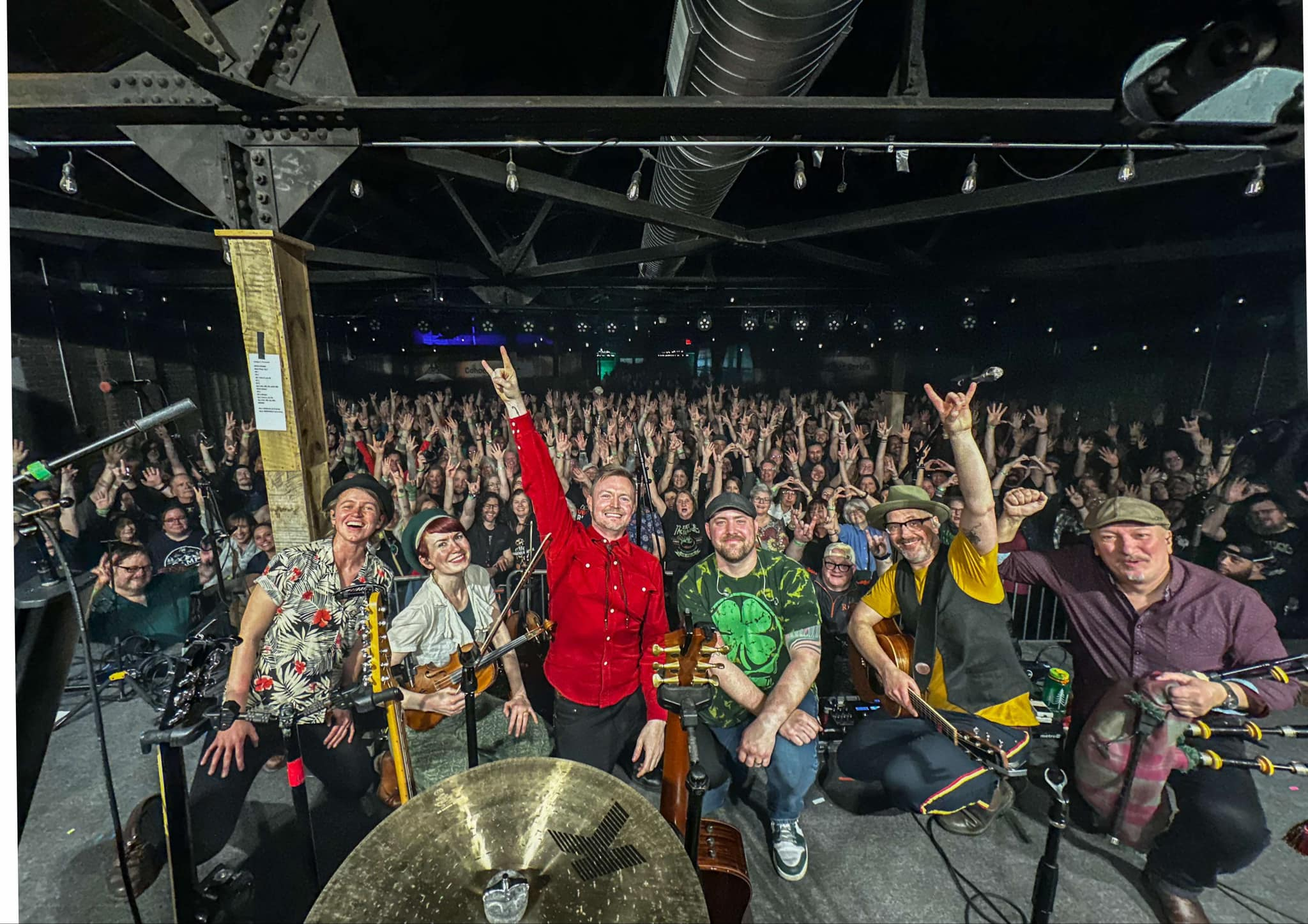
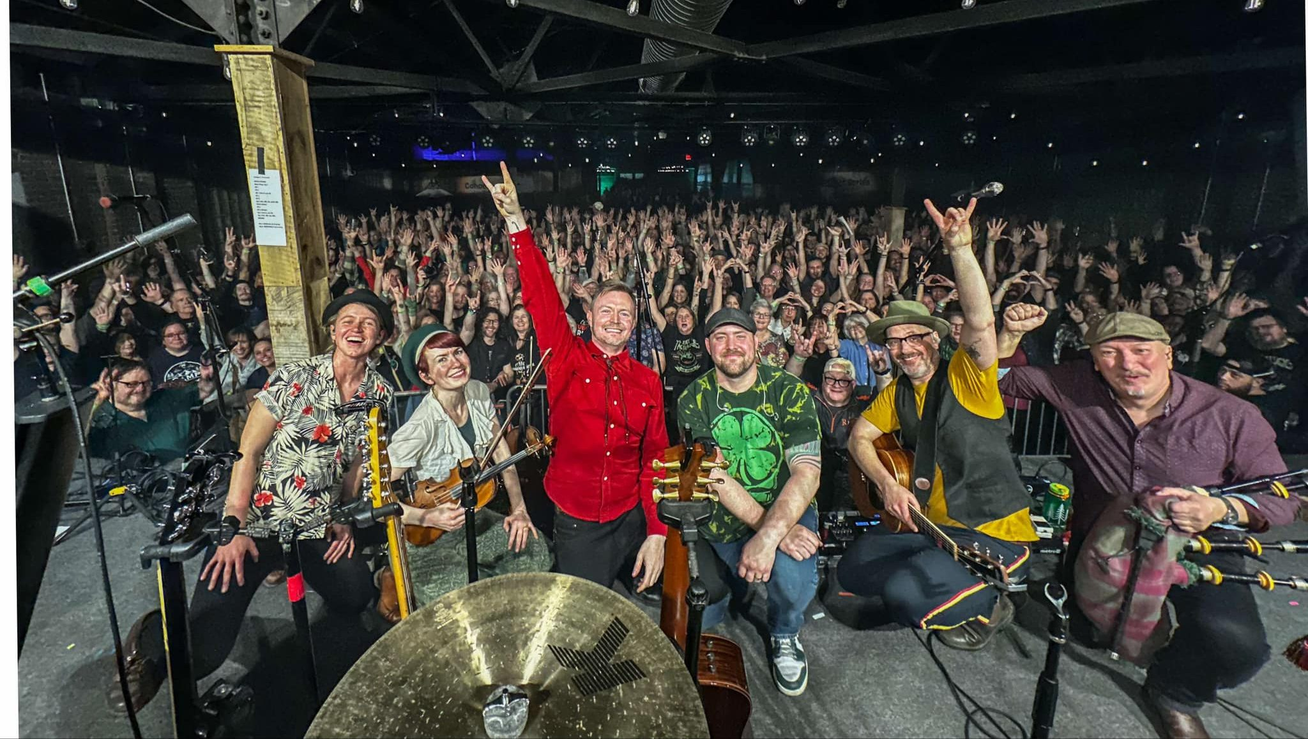
Crop the top 20% off the founder photo
Trims dark ceiling girders so the band and crowd fill the frame.
Re-encoded at quality 82; width/height attributes updated to the new
2048x1158.

diff --git a/public/index.html b/public/index.html
@@ -182,7 +182,7 @@
             <div class="eyebrow">Why I built it</div>
             <h2 class="h2">I made this for myself.</h2>
             <figure class="maker-photo">
-                <img src="media/brian-stage.jpg" width="2048" height="1447" alt="Brian Buchanan and Enter the Haggis onstage in front of a packed crowd, arms raised." loading="lazy" onerror="this.closest('.maker-photo').hidden = true">
+                <img src="media/brian-stage.jpg" width="2048" height="1158" alt="Brian Buchanan and Enter the Haggis onstage in front of a packed crowd, arms raised." loading="lazy" onerror="this.closest('.maker-photo').hidden = true">
             </figure>
             <p>I'm Brian Buchanan. I've spent 25 years on the road as a fiddler and songwriter with Enter the Haggis and House of Hamill, and I've written thousands of setlists at venues all over the world. Sitting backstage with no table, bad lighting, and dried out markers, I've gotten sets finalized and copied out more times than I can count. I'm not a developer. I just wanted this app to exist, and nothing on the market did the job: easy to read setlists with notes, keys, and capo positions, a record of what we played and where, and the whole catalog in one place so I wasn't holding it in my head every night.</p>
             <p>So I built Setcraft.</p>
